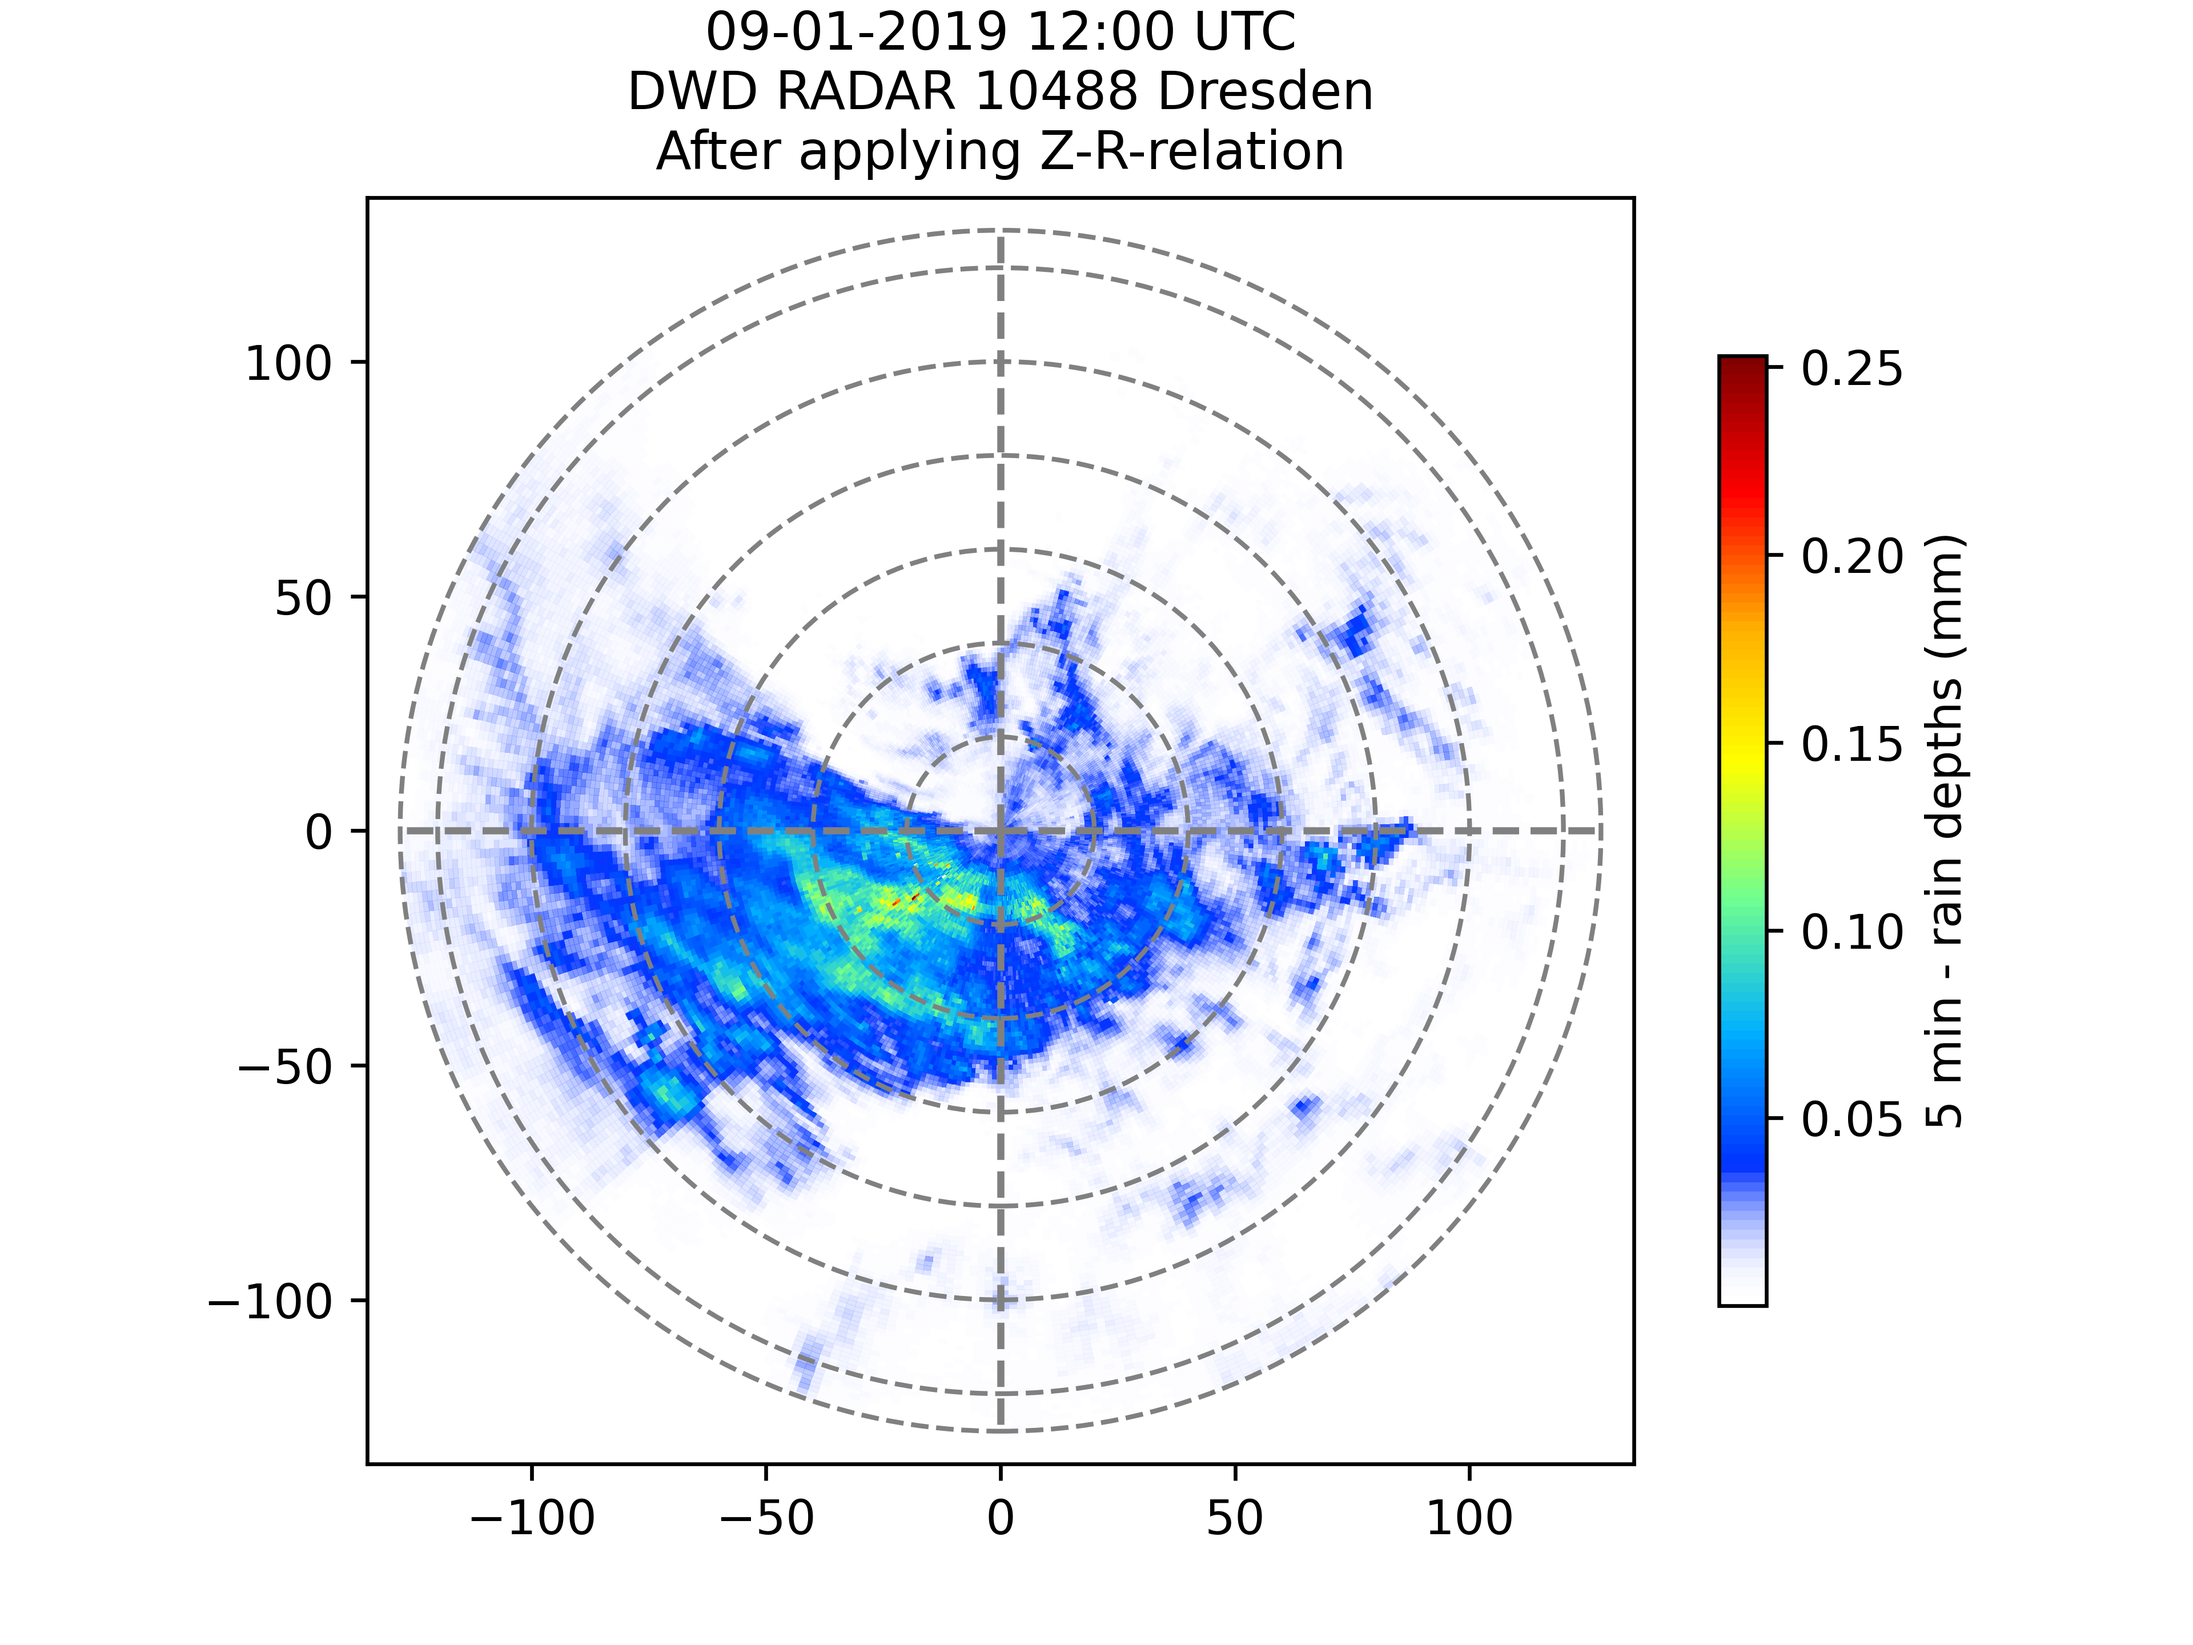
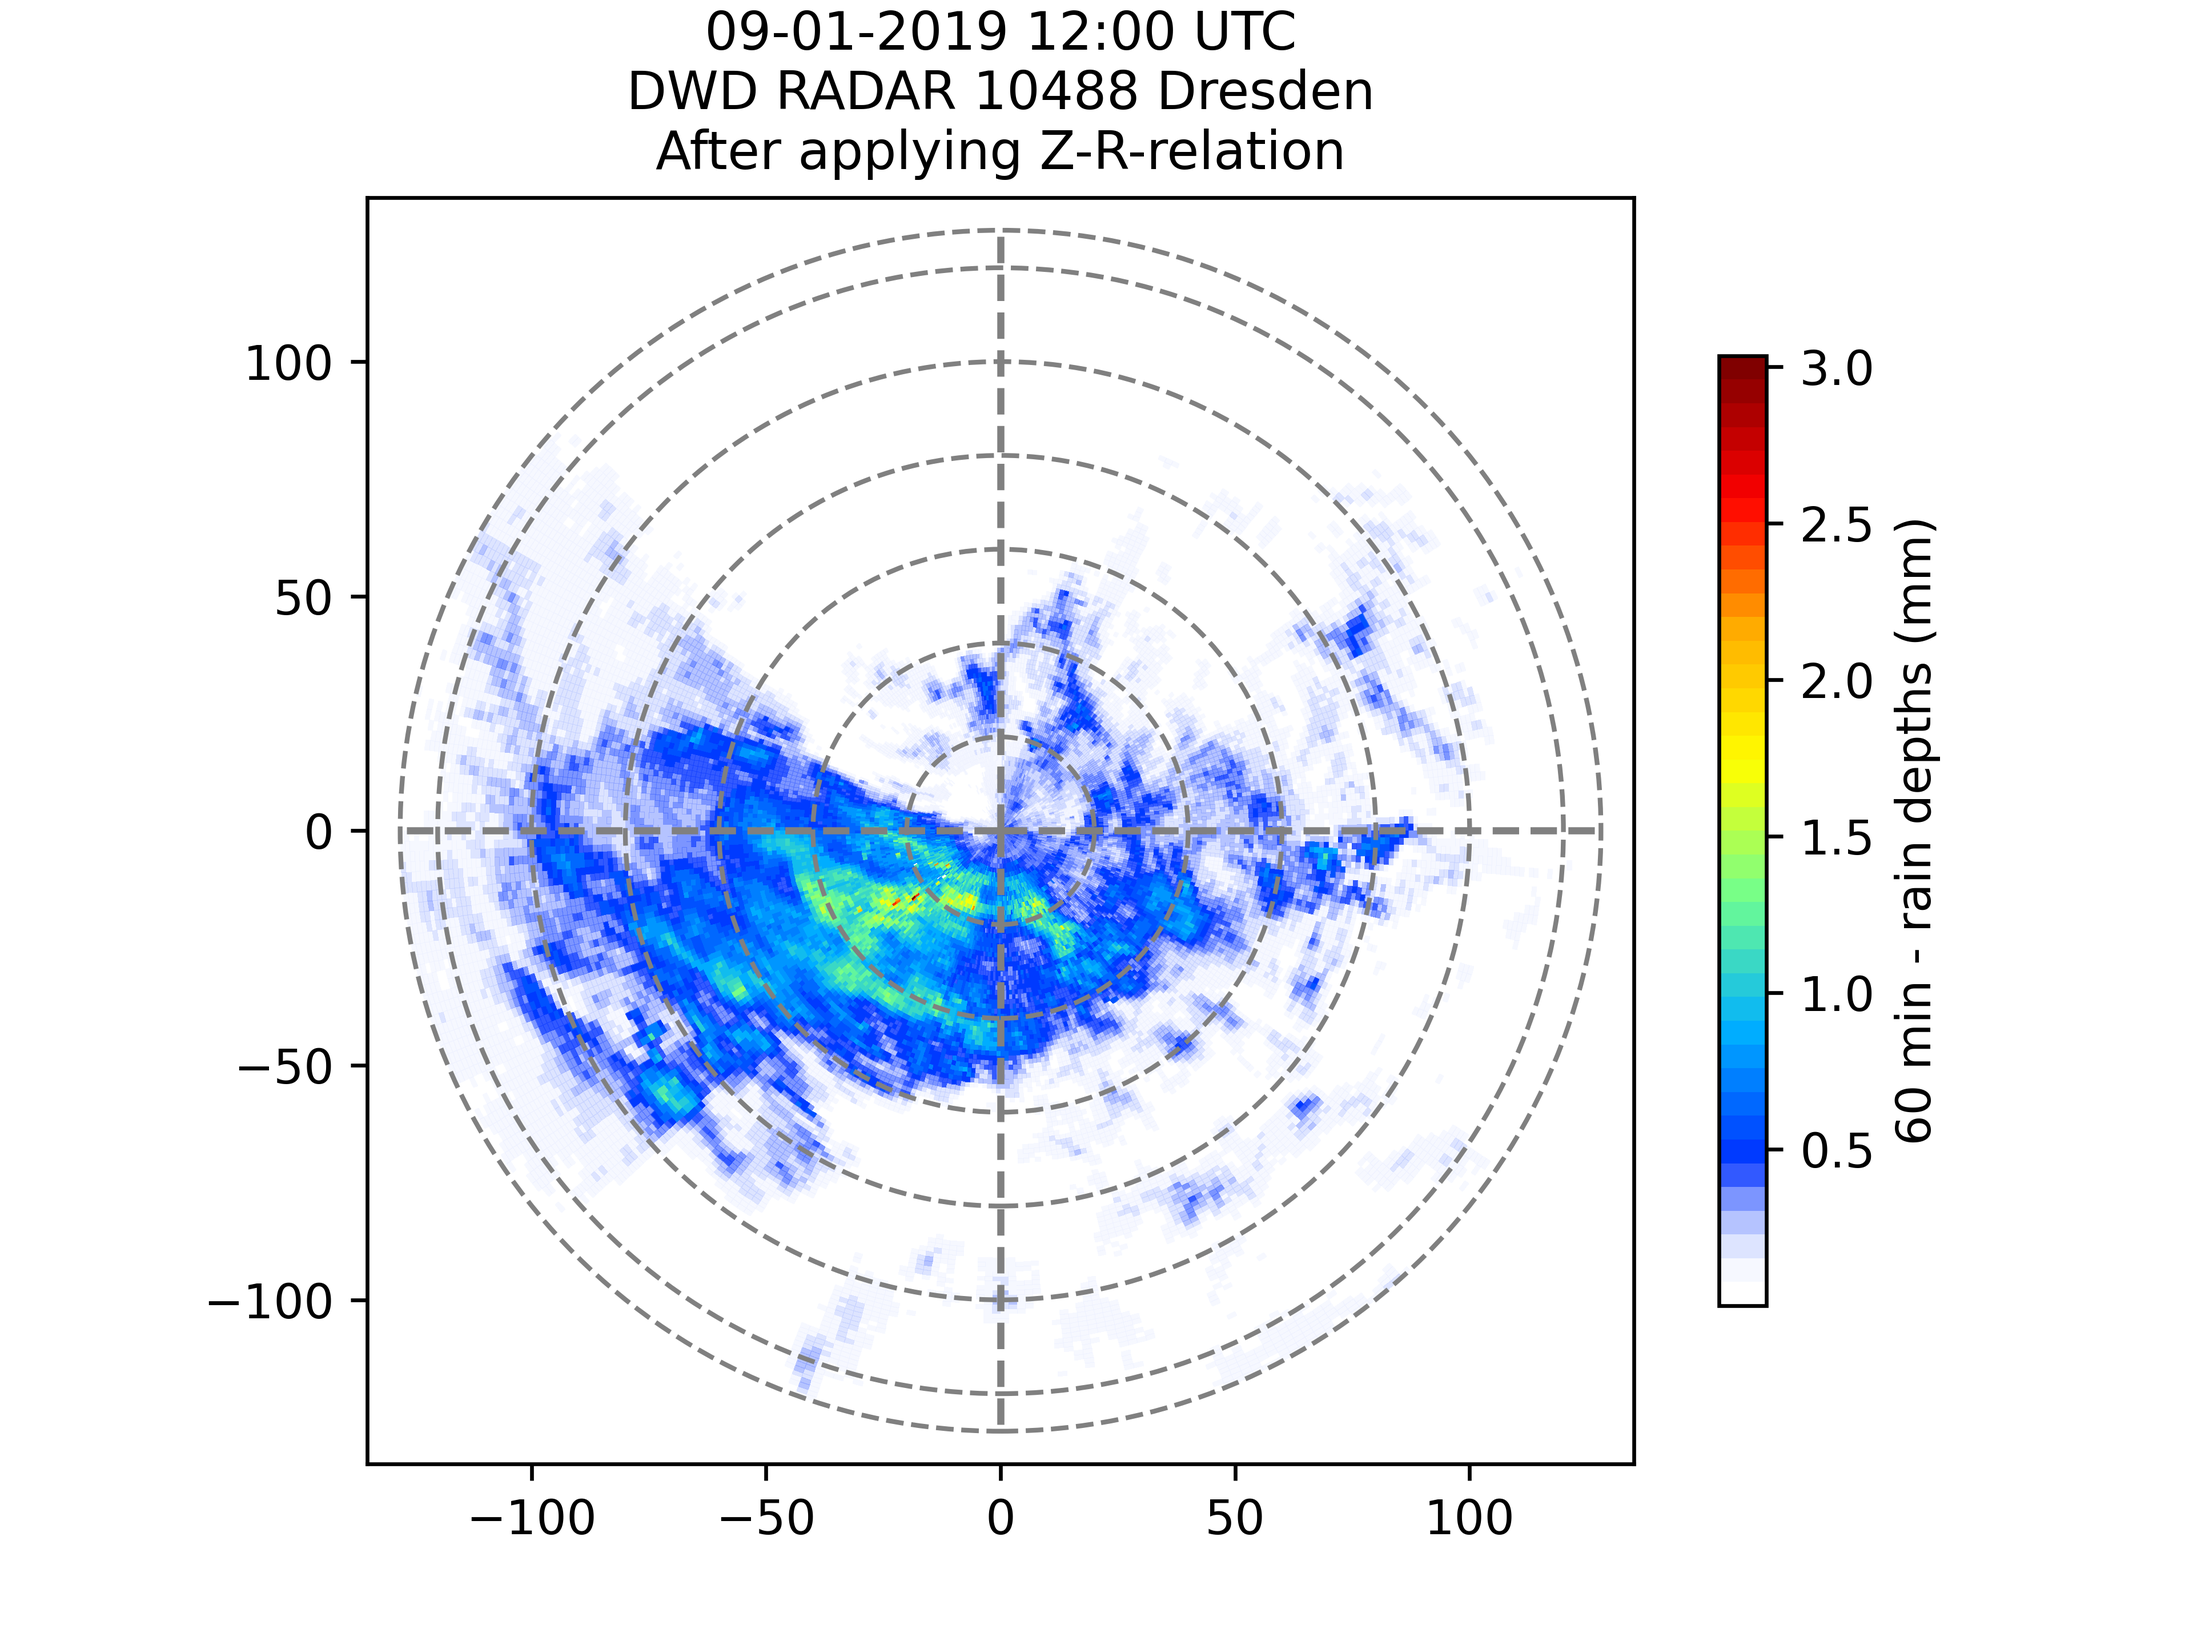
Change default time in raindepths plot to 60min.

diff --git a/code/example_1901091200.py b/code/example_1901091200.py
@@ -3,7 +3,7 @@ from os import listdir
 from os.path import isfile, join
 import datetime
 import zipfile
-import pandas as pd
+import scipy as sp
 import numpy as np
 import wradlib as wrl
 import matplotlib.pylab as pl
@@ -185,8 +185,8 @@ pm = pl.pcolormesh(xgrid, ygrid, gauge_array, cmap=cm, vmax=max(gaugedata["prec_
 cbar = pl.colorbar(pm)
 cm.set_bad(color='grey')
 cbar.set_label("60 min - rain depths (mm)", fontsize=12)
-pl.xlabel("Easting (m)")
-pl.ylabel("Northing (m)")
+pl.xlabel("Easting (m)", fontsize=12)
+pl.ylabel("Northing (m)", fontsize=12)
 ax.ticklabel_format(useOffset=False, style='plain')
 pl.xlim(50000, 600000)
 pl.ylim(min(ygrid), 6000000)
@@ -194,8 +194,26 @@ pl.grid(lw=0.5)
 pl.title('09-01-2019 12:00 UTC\nDWD gauge data\nUTM zone 33N (EPSG 32633)', fontsize=12)
 pl.savefig(f"images/gaugedata_{filename_drs[15:25]}_utm60min", dpi=600)
 
-# Interpolate gauge array.
 
+
+# Interpolate gauge array.
+gauge_array_int = sp.interpolate.griddata(values = gauge_array, xi = , method="linear")
+
+print("Plot gauges.")
+fig = pl.figure(figsize=(10,8))
+ax = pl.subplot(111, aspect="equal")
+pm = pl.pcolormesh(xgrid, ygrid, gauge_array_int, cmap=cm, vmax=max(gaugedata["prec_mm"]))
+cbar = pl.colorbar(pm)
+cm.set_bad(color='grey')
+cbar.set_label("60 min - rain depths (mm)", fontsize=12)
+pl.xlabel("Easting (m)")
+pl.ylabel("Northing (m)")
+ax.ticklabel_format(useOffset=False, style='plain')
+pl.xlim(50000, 600000)
+pl.ylim(min(ygrid), 6000000)
+pl.grid(lw=0.5)
+pl.title('09-01-2019 12:00 UTC\nDWD gauge data\nUTM zone 33N (EPSG 32633)', fontsize=12)
+pl.savefig(f"images/gaugedata_{filename_drs[15:25]}_utm60min_interpol", dpi=600)
 
 # Calculate auge adjustment.
 

diff --git a/code/func.py b/code/func.py
@@ -108,7 +108,7 @@ def get_depths(filename):
     plot_attenuation_per_bin(data_no_clutter, data_attcorr, filename, 180)
     plot_attenuation_per_bin(data_no_clutter, data_attcorr, filename, 270)
     plot_attenuation_mean_bin(data_no_clutter, data_attcorr, filename)
-    depths = rain_depths(data_attcorr, filename, 300*12)
+    depths = rain_depths(data_attcorr, filename, duration_sec=300*12)
     plot_raindepths(depths, filename)    
     return depths
 
